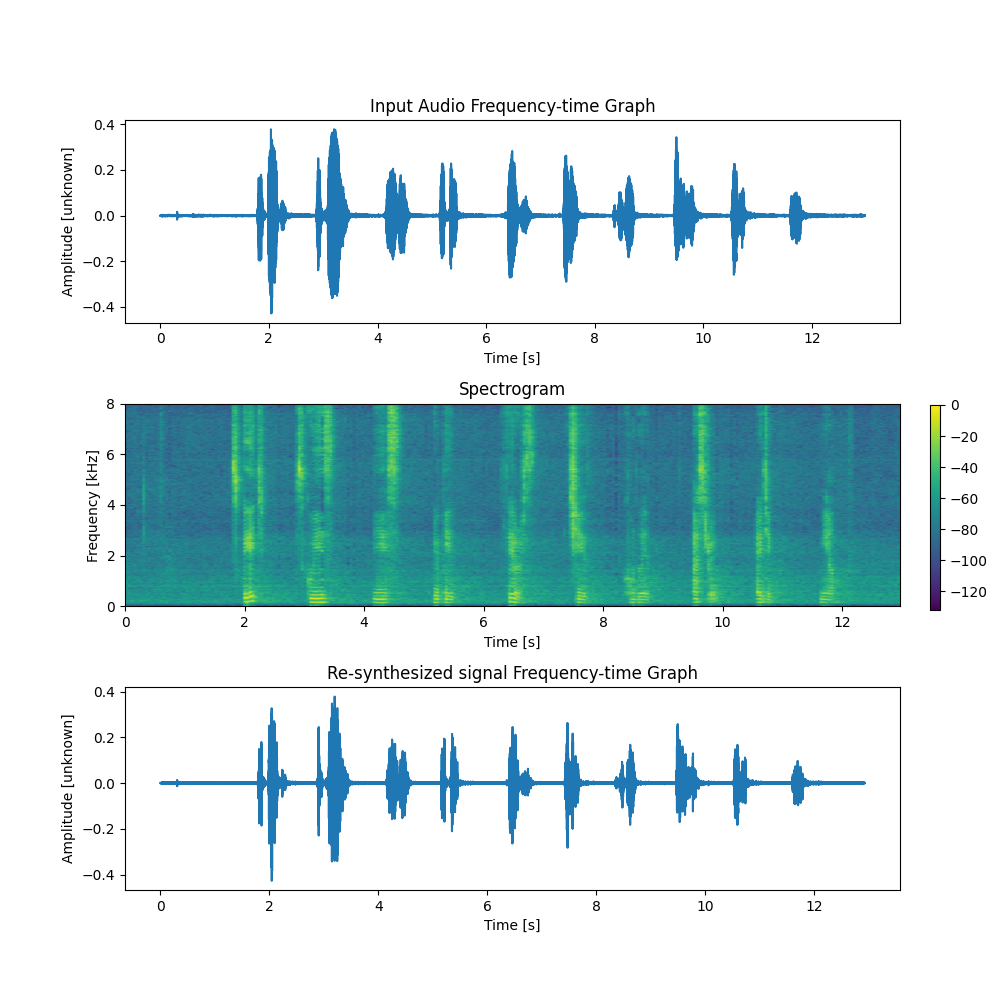
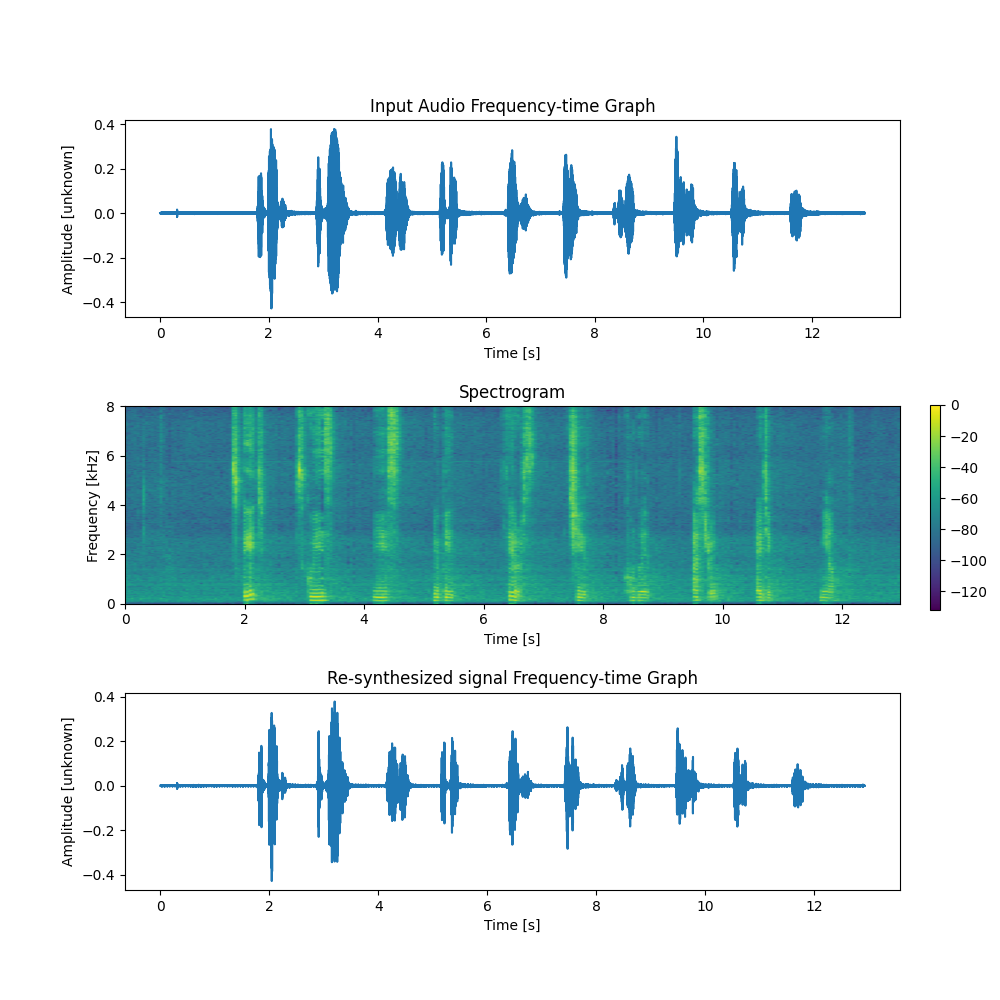
Ver2.1

diff --git a/ex01/m_raditya_g/main.py b/ex01/m_raditya_g/main.py
@@ -75,7 +75,7 @@ def main():
 
     # Prepare the plots figures
     fig, ax = plt.subplots(3, 1, figsize=(10, 10))
-    plt.subplots_adjust(hspace=0.4)
+    plt.subplots_adjust(hspace=0.45)
 
     # Subplot 1 (Frequency-time Domain plot for source input)
     ax[0].plot(np.arange(audio.shape[0]) / samplerate, audio)
